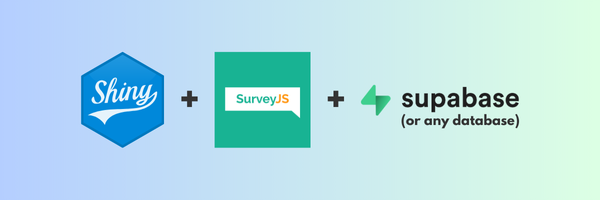
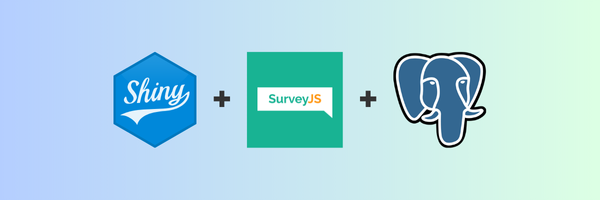
integrating R6

Changed region(s): [[0.12, 0.24, 0.87, 0.75]]

diff --git a/readme.md b/readme.md
@@ -29,15 +29,14 @@ There are a couple amazing Shiny-based survey tools like [surveydown](https://gi
 git clone https://github.com/dylanpieper/ShinySurveyJS.git
 ```
 
-2.  Create a `db.yml` file, modifying the following template with your database credentials. In Supabase, navigate to the project sidebar navigation pane ➡ project settings ➡ configuration: database ➡ database settings: connection parameters.
+2.  Create a `.env` file, modifying the following template with your database credentials. In Supabase, navigate to the project sidebar navigation pane ➡ project settings ➡ configuration: database ➡ database settings: connection parameters.
 
-``` yaml
-db:
-  host: "host"
-  port: 1234
-  dbname: "dbname"
-  user: "user"
-  password: "password"
+``` env
+DB_HOST=aws-0-us-west-1.pooler.supabase.com
+DB_PORT=6543
+DB_NAME=postgres
+DB_USER=username
+DB_PASSWORD=password
 ```
 
 3.  Install the required R packages:
@@ -52,12 +51,12 @@ pak::pkg_install(c("shiny", "jsonlite", "shinyjs", "httr", "DBI", "RPostgres", "
 1.  Create the table `entities` in your database to explore the example surveys and dynamic fields functionality. You can execute the following queries to create the table and insert the sample data.
 
 ``` sql
-CREATE TABLE entities (
-    entity TEXT,
+CREATE TABLE organization_location (
+    organization TEXT,
     location TEXT
 );
 
-INSERT INTO entities (entity, location) 
+INSERT INTO organization_location (organization, location) 
 VALUES 
     ('Google', 'San Francisco, CA'),
     ('Google', 'Boulder, CO'),
@@ -66,53 +65,43 @@ VALUES
     ('Anthropic', 'Seattle, WA'),
     ('Anthropic', 'New York City, NY');
     
-CREATE TABLE doctors (
+CREATE TABLE doctor_clinic (
    doctor TEXT,
    clinic TEXT
 );
-
-INSERT INTO doctors (doctor, clinic) VALUES
-   ('DrSarahChen', 'Downtown Medical'),
-   ('DrSarahChen', 'Westside Health'),
-   ('DrJamesWilson', 'Downtown Medical'),
-   ('DrJamesWilson', 'Eastside Clinic'),
-   ('DrMariaGarcia', 'Westside Health'),
-   ('DrMariaGarcia', 'Eastside Clinic');
+   
+INSERT INTO doctor_clinic (doctor, clinic) VALUES
+   ('SarahChen', 'Downtown Medical'),
+   ('SarahChen', 'Westside Health'),
+   ('JamesWilson', 'Downtown Medical'),
+   ('JamesWilson', 'Eastside Clinic'),
+   ('MariaGarcia', 'Westside Health'),
+   ('MariaGarcia', 'Eastside Clinic');
 ```
 
 2.  Optionally, create and manage your own dynamic fields table by adding your table and mapping your fields to the `dynamic_fields.yml` file. The `group_col` is the column that will be used to filter the dynamic fields, which is assigned a token and used in the URL query parameter. The `choices_col` is the column that will be used to locate the field name and populate the survey choices. The `surveys` field is a list of survey names that the dynamic field applies to.
 
-``` yaml
-fields:
-  - table_name: "entities"
-    group_col: "entity"
-    choices_col: "location"
-    surveys: ["dynamicSurvey1", "dynamicSurvey2"]
-```
+Because the app uses URL queries, don't use spaces and special characters for the `group_col`.
 
 ## Run Survey App
 
-1.  In `app.R`, run the following line once to create the necessary tables and generate the tokens for all survey objects and dynamic field groups:
-
-``` r
-setup_database("initial")
-```
-
-2.  Run the app:
+1.  Run the app:
 
 ``` r
 runApp()
 ```
 
-3.  Access survey with URL query parameters:
+If the `tokens` table does not exist yet, the app will automatically create it. The app will also generate tokens for each survey and store them in the database.
+
+Tokenization is used by default. Using tokens requires an additional table read, making it a slightly slower process, which may not be necessary for your use case. Tokens are generated as a background task of the app using parallelization. If new tokens are created, users can access them on the next page load after the process runs. You can customize the tokenization algorithm in `shiny/token.R`.
+
+2.  Access survey with URL query parameters:
     -   Generic:
         -   Without tokens (same as JSON file name): `/?survey=name`
         -   With tokens: `/?survey=token`
     -   Examples with dynamic fields:
-        -   Without tokens (`token_active <- FALSE`): `/?survey=dynamicSurvey&entity=Google`
+        -   Without tokens (`token_active <- FALSE`): `/?survey=DynamicPersonID&entity=MariaGarcia`
         -   With tokens (`token_active <- TRUE`): `/?survey=LimeMeteorSevenHundredThirtyTwo&entity=FiveHundredSeventyFourGalaxyBrown`
-
-Tokenization is used by default. Using tokens requires an additional table read, making it a slightly slower process, which may not be necessary for your use case. Tokens are generated as a background task of the app using parallelization. If new tokens are created, users can access them on the next page load after the process runs. You can customize the tokenization algorithm in `shiny/token.R`.
 
 ## Use Any Database
 
